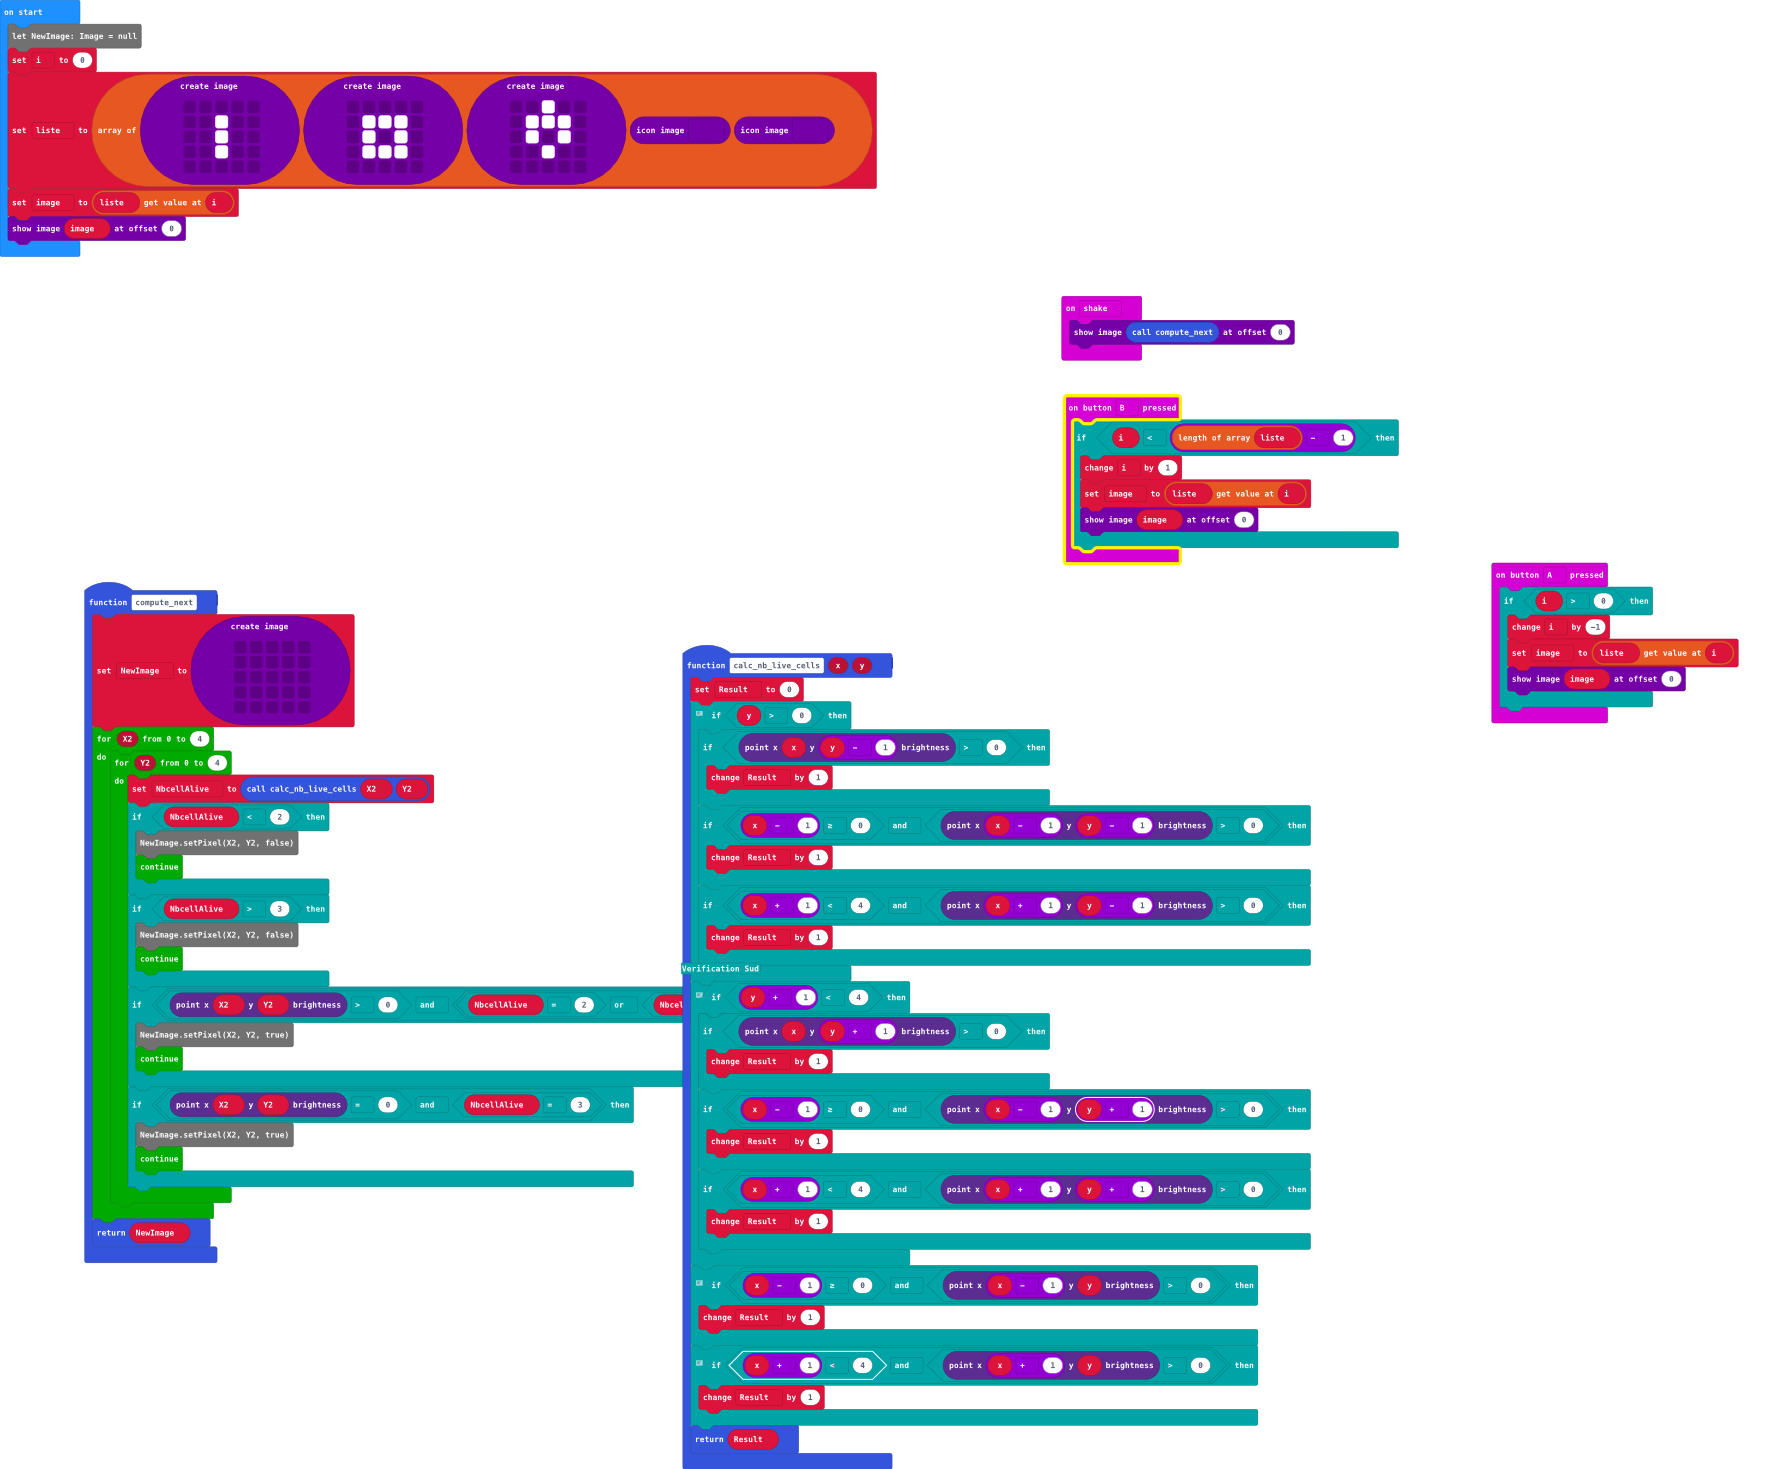
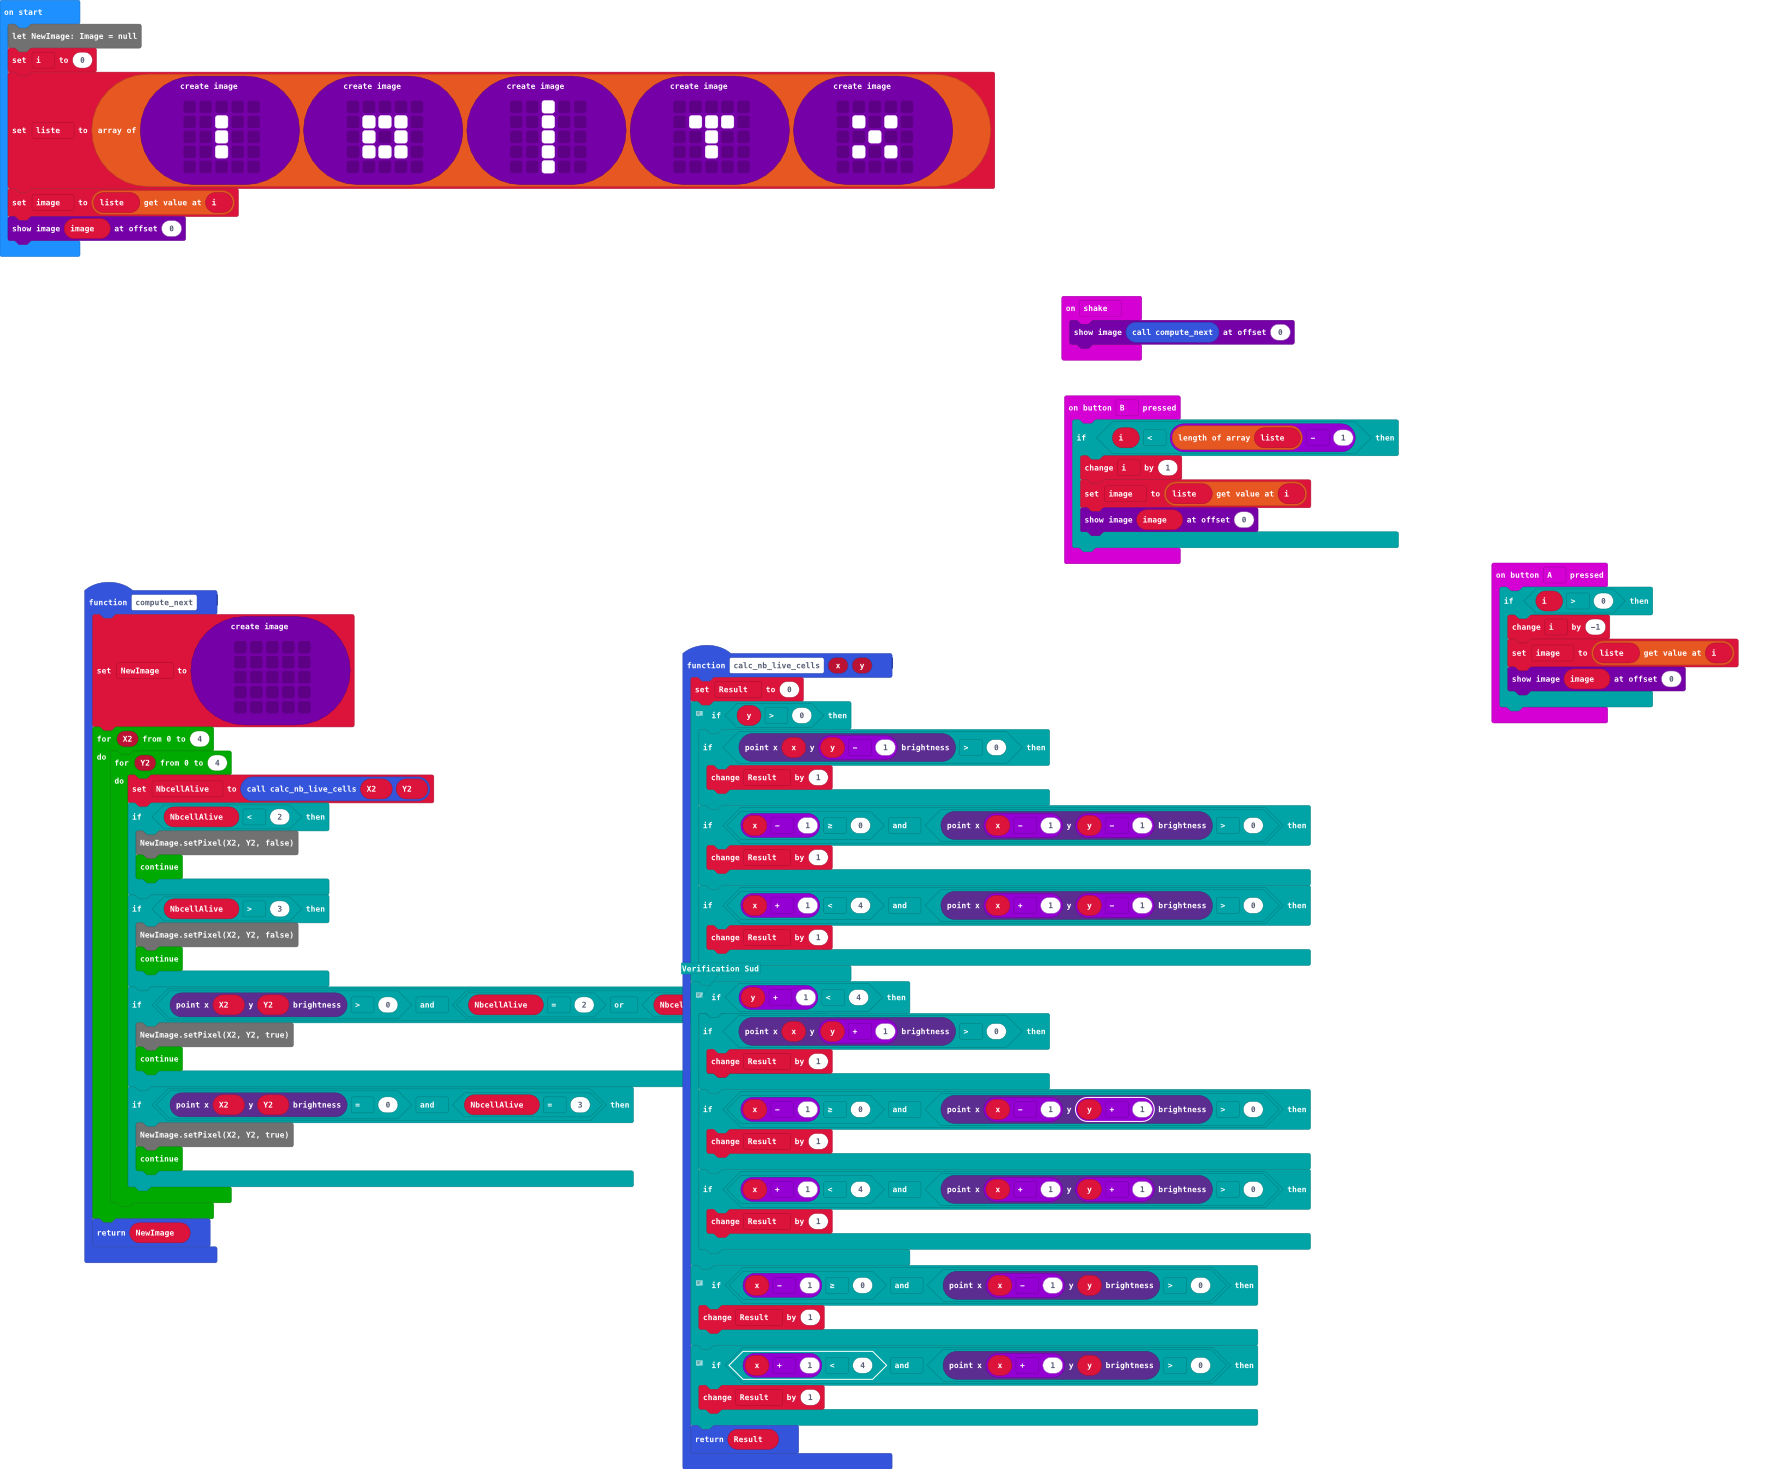
add simple samples (not working yet)

Changed region(s): [[0.2765, 0.0306, 0.5531, 0.1532], [0.5838, 0.2757, 0.676, 0.3982]]

diff --git a/main.ts b/main.ts
@@ -103,10 +103,22 @@ liste = [images.createImage(`
     . . . . .
     `), images.createImage(`
     . . # . .
+    . . # . .
+    . . # . .
+    . . # . .
+    . . # . .
+    `), images.createImage(`
+    . . . . .
     . # # # .
-    . # . # .
+    . . # . .
     . . # . .
     . . . . .
-    `), images.iconImage(IconNames.SmallHeart), images.iconImage(IconNames.Heart)]
+    `), images.createImage(`
+    . . . . .
+    . # . # .
+    . . # . .
+    . # . # .
+    . . . . .
+    `)]
 image = liste[i]
 image.showImage(0)
